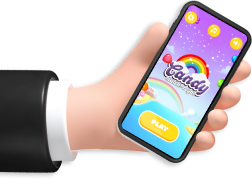
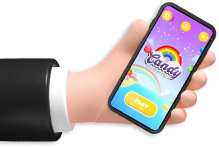
change flying images

diff --git a/src/scss/relax-with-candy-juzz.scss b/src/scss/relax-with-candy-juzz.scss
@@ -5,44 +5,27 @@
   &-container {
     width: 320px;
     padding: 20px;
-    background-image: url('/img/sweetest/jazz-candy-cube-mob.png'),
-      url('/img/sweetest/jazz-candy-heart-mob.png');
-    background-size: 60px 60px, 57px 63px;
-    background-position: bottom 77px right 20px, bottom 223px left;
+    background-image: url('/img/sweetest/jazz-candies-mob.png');
+    background-size: contain;
+    background-position: bottom 77px center;
     background-repeat: no-repeat;
 
     @media (min-resolution: 192dpi) {
-      background-image: url('/img/sweetest/jazz-candy-cube-mob-2x.png'),
-        url('/img/sweetest/jazz-candy-heart-mob-2x.png');
+      background-image: url('/img/sweetest/jazz-candies-mob-2x.png');
     }
 
     @include media(desktop) {
       width: 1200px;
       padding: 80px 80px 44px;
-      background-image: url('../img/sweetest/jazz-candy-sphere.png'),
-        url('../img/sweetest/jazz-candy-tablet.png'),
-        url('../img/sweetest/jazz-candy-cone.png'),
-        url('../img/sweetest/jazz-candy-star.png'),
-        url('../img/sweetest/jazz-candy-heart.png'),
-        url('../img/sweetest/jazz-candy-cube.png');
-      background-size: 100px 110px, 100px 110px, 100px 110px, 100px 110px,
-        100px 110px, 100px 110px;
-      background-position: bottom 207px left 80px, bottom 77px left 240px,
-        bottom 207px left 400px, bottom 77px left 560px,
-        bottom 218px right 348px, bottom 77px right 80px;
+      background-image: url('../img/sweetest/jazz-candies.png');
+      background-size: 1040px 240px;
+      background-position: bottom 77px center;
       background-repeat: no-repeat;
-      
+
       @media (min-resolution: 192dpi) {
-        background-image: url('../img/sweetest/jazz-candy-sphere-2x.png'),
-          url('../img/sweetest/jazz-candy-tablet-2x.png'),
-          url('../img/sweetest/jazz-candy-cone-2x.png'),
-          url('../img/sweetest/jazz-candy-star-2x.png'),
-          url('../img/sweetest/jazz-candy-heart-2x.png'),
-          url('../img/sweetest/jazz-candy-cube-2x.png');
+        background-image: url('../img/sweetest/jazz-candies-2x.png');
       }
     }
-
-    
   }
 
   &-subtitle {

diff --git a/src/scss/sweetest-matching-fun.scss b/src/scss/sweetest-matching-fun.scss
@@ -1,14 +1,13 @@
 .sweetest {
-  // padding: 40px 0 90px;
   color: $_purple-dark;
 
   &-container {
     width: 320px;
-    padding: 40px 20px 90px;
+    padding: 40px 20px 28px;
     background-image: url('../img/sweetest/road-mob.png');
-    background-size: 184px 246px;
+    background-size: 297px 180px;
     background-repeat: no-repeat;
-    background-position: left bottom;
+    background-position: bottom 35px right 80px;
 
     @media (min-resolution: 192dpi) {
       background-image: url('../img/sweetest/road-mob-2x.png');
@@ -16,12 +15,12 @@
 
     @include media(desktop) {
       width: 1200px;
-      padding: 80px 80px 260px;
-      background-size: 816px 583px;
-      background-image: url('../img/sweetest/road-desk.png');
+      padding: 80px 80px 60px;
+      background-size: 1097px 302px;
+      background-image: url('../img/sweetest/road.png');
 
       @media (min-resolution: 192dpi) {
-        background-image: url('../img/sweetest/road-desk-2x.png');
+        background-image: url('../img/sweetest/road-2x.png');
       }
     }
   }
@@ -36,33 +35,31 @@
 
   &-desc {
     margin-top: 20px;
+
+    @include media(desktop) {
+      margin-top: 32px;
+      width: 600px;
+    }
   }
 
   &-picture {
     display: block;
     width: fit-content;
-    margin-top: 45px;
+    margin-top: 31px;
     margin-left: auto;
+
+    @include media(desktop) {
+      margin-top: -117px;
+      margin-left: 712px;
+    }
   }
 
   &-image {
     display: block;
     width: 116px;
     height: 235px;
-  }
 
-  @include media(desktop) {
-    &-desc {
-      margin-top: 32px;
-      width: 600px;
-    }
-
-    &-picture {
-      margin-top: -117px;
-      margin-left: 724px;
-    }
-
-    &-image {
+    @include media(desktop) {
       width: 245px;
       height: 500px;
     }

diff --git a/src/partials/endless-candy-levels.html b/src/partials/endless-candy-levels.html
@@ -21,20 +21,20 @@
         />
         <source
           srcset="
-            /img/sweetest/left-hand-desk.png    1x,
-            /img/sweetest/left-hand-desk-2x.png 2x
+            /img/sweetest/left-hand.png    1x,
+            /img/sweetest/left-hand-2x.png 2x
           "
           media="(min-width: 1200px)"
         />
         <img
           class="levels-image-left"
-          src="/img/sweetest/left-hand-desk.png"
+          src="/img/sweetest/left-hand.png"
           alt="A hand holding a smartphone and ready to press a Play button."
-          width="534"
+          width="539"
           height="360"
         />
       </picture>
-      <picture>
+      <picture class="levels-picture-right">
         <source
           srcset="
             /img/sweetest/right-hand-mob.png    1x,
@@ -44,17 +44,17 @@
         />
         <source
           srcset="
-            /img/sweetest/right-hand-desk.png    1x,
-            /img/sweetest/right-hand-desk-2x.png 2x
+            /img/sweetest/right-hand.png    1x,
+            /img/sweetest/right-hand-2x.png 2x
           "
           media="(min-width: 1200px)"
         />
         <img
           class="levels-image-right"
-          src="/img/sweetest/right-hand-desk.png"
+          src="/img/sweetest/right-hand.png"
           alt="A hand playing game where a cartoon hero is moving along a curvy road to start next level."
-          width="534"
-          height="360"
+          width="384"
+          height="405"
         />
       </picture>
     </div>

diff --git a/src/scss/endless-candy-levels.scss b/src/scss/endless-candy-levels.scss
@@ -3,11 +3,11 @@
 
   &-container {
     width: 320px;
-    padding: 20px 0 26px;
+    padding: 20px 20px 26px;
 
     @include media(desktop) {
       width: 1200px;
-      padding: 40px 0 23px;
+      padding: 40px 80px 23px;
     }
   }
 
@@ -40,45 +40,47 @@
     display: flex;
     flex-direction: column;
     gap: 32px;
+    border-radius: 24px;
     margin-top: 35px;
+    padding: 31px 0 49px;
+    background-color: $_pink;
 
     @include media(desktop) {
       flex-direction: row;
       justify-content: space-between;
-      // align-items: start;
-      margin-top: -34px;
-      height: 481px;
+      margin-top: 87px;
+      border-radius: 50px;
+      height: 344px;
     }
   }
 
-  &-picture-left {
+  &-picture-left,
+  &-picture-right {
     @include media(desktop) {
       align-self: end;
-
     }
   }
 
   &-image-left {
-    margin-top: 35px;
-    width: 252px;
-    height: 179px;
+    width: 219px;
+    height: 146px;
 
     @include media(desktop) {
       margin-top: 0;
-      width: 534px;
+      width: 539px;
       height: 360px;
     }
   }
 
   &-image-right {
     justify-self: end;
-    width: 238px;
-    height: 235px;
+    width: 165px;
+    height: 174px;
 
     @include media(desktop) {
-      // margin-top: 121px;
-      width: 440px;
-      height: 464px;
+      margin-bottom: 13px;
+      width: 384px;
+      height: 405px;
     }
   }
 }

diff --git a/src/scss/kindom-of-features.scss b/src/scss/kindom-of-features.scss
@@ -1,5 +1,4 @@
 .features {
-  margin-top: -62px;
   color: $_purple-dark;
 
   &-container {
@@ -41,10 +40,6 @@
     @include media(desktop){
       margin-top: 32px;
     }
-  }
-
-  @include media(desktop) {
-    margin-top: -201px;
   }
 }
 
